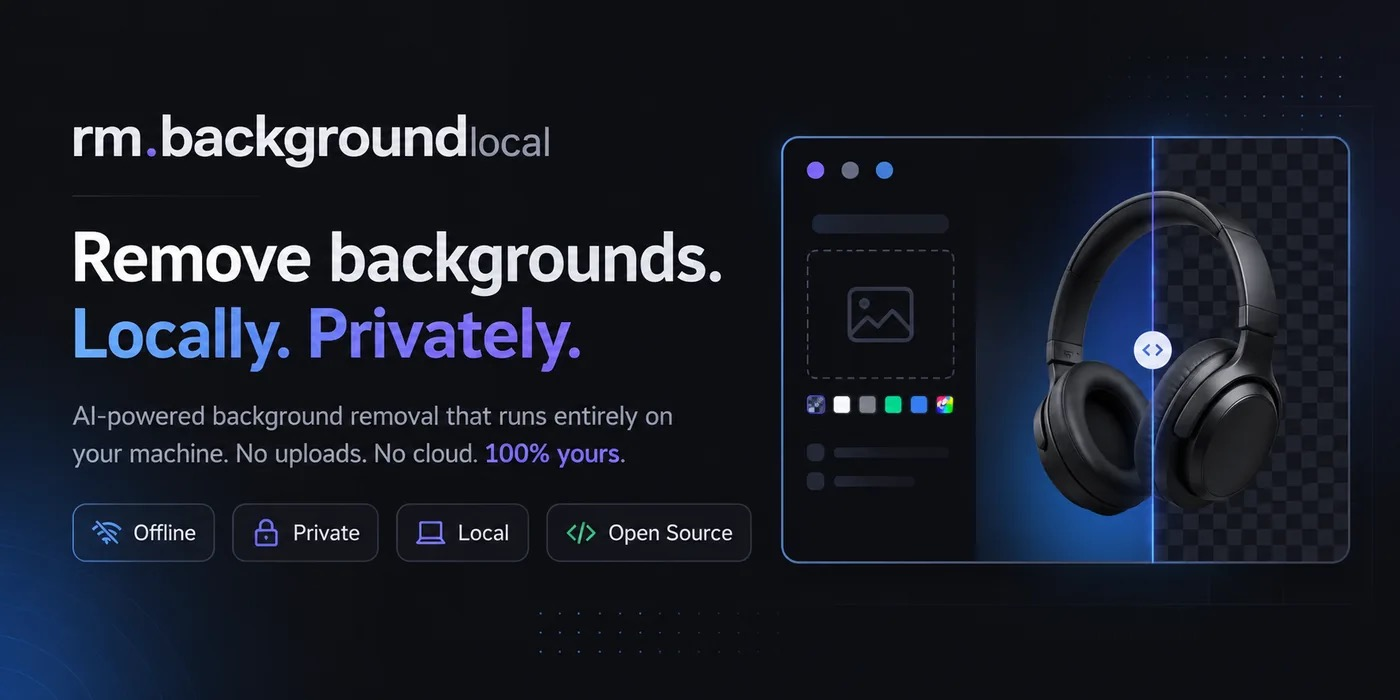
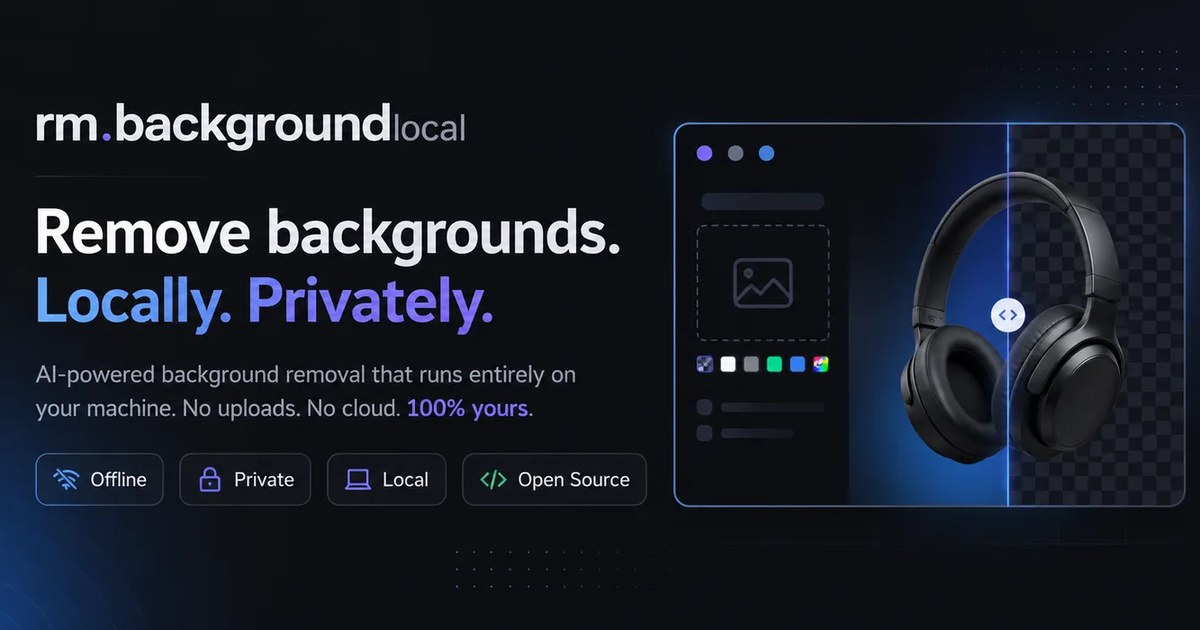
fix(site): og:image 1200x630 y dimensiones antes de type
Recorta JPEG al ratio 1.91:1 que espera Facebook, pone width/height
justo tras og:image y bust de caché para forzar reprocesado en Meta.

diff --git a/site/index.html b/site/index.html
@@ -14,17 +14,17 @@
 <meta property="og:url" content="https://tecnomanu.github.io/remove-background-local/" />
 <meta property="og:site_name" content="rm.background local" />
 <meta property="og:locale" content="en_US" />
-<meta property="og:image" content="https://tecnomanu.github.io/remove-background-local/assets/screenshot.jpg" />
+<meta property="og:image" content="https://tecnomanu.github.io/remove-background-local/assets/screenshot.jpg?v=2" />
+<meta property="og:image:width" content="1200" />
+<meta property="og:image:height" content="630" />
 <meta property="og:image:type" content="image/jpeg" />
-<meta property="og:image:width" content="1400" />
-<meta property="og:image:height" content="700" />
 <meta property="og:image:alt" content="rm.background local — Remove backgrounds locally and privately. AI-powered, offline, open source. No uploads, no cloud." />
 
 <!-- Twitter / X -->
 <meta name="twitter:card" content="summary_large_image" />
 <meta name="twitter:title" content="rm.background local — Remove backgrounds without uploading anything" />
 <meta name="twitter:description" content="AI-powered background removal that runs entirely on your machine. No uploads, no cloud, 100% yours." />
-<meta name="twitter:image" content="https://tecnomanu.github.io/remove-background-local/assets/screenshot.jpg" />
+<meta name="twitter:image" content="https://tecnomanu.github.io/remove-background-local/assets/screenshot.jpg?v=2" />
 <meta name="twitter:image:alt" content="rm.background local — Remove backgrounds locally and privately. AI-powered, offline, open source." />
 <meta name="theme-color" content="#0f0f12" />
 